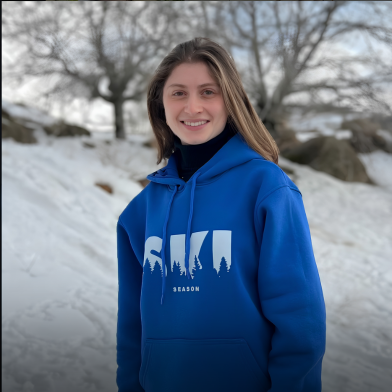
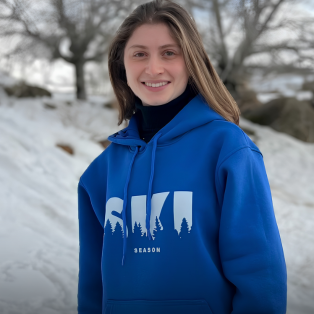
Swap Clarine & Nadine card for Jessica Obeid stadium photo, zoom Helena's photo

diff --git a/components/home/UGCGallery.tsx b/components/home/UGCGallery.tsx
@@ -13,9 +13,9 @@ const ugcPosts = [
     likes: 312,
   },
   {
-    image: "/community/clarine-nadine.png",
-    handle: "@clvrine @nadinehmd",
-    caption: "Matching tees, matching energy 💙 Who makes you happy?",
+    image: "/community/jessica-obeid-2.png",
+    handle: "@jessica_obeid",
+    caption: "\"You are the right...\" obsessed with this one 🤍",
     likes: 218,
   },
   {
